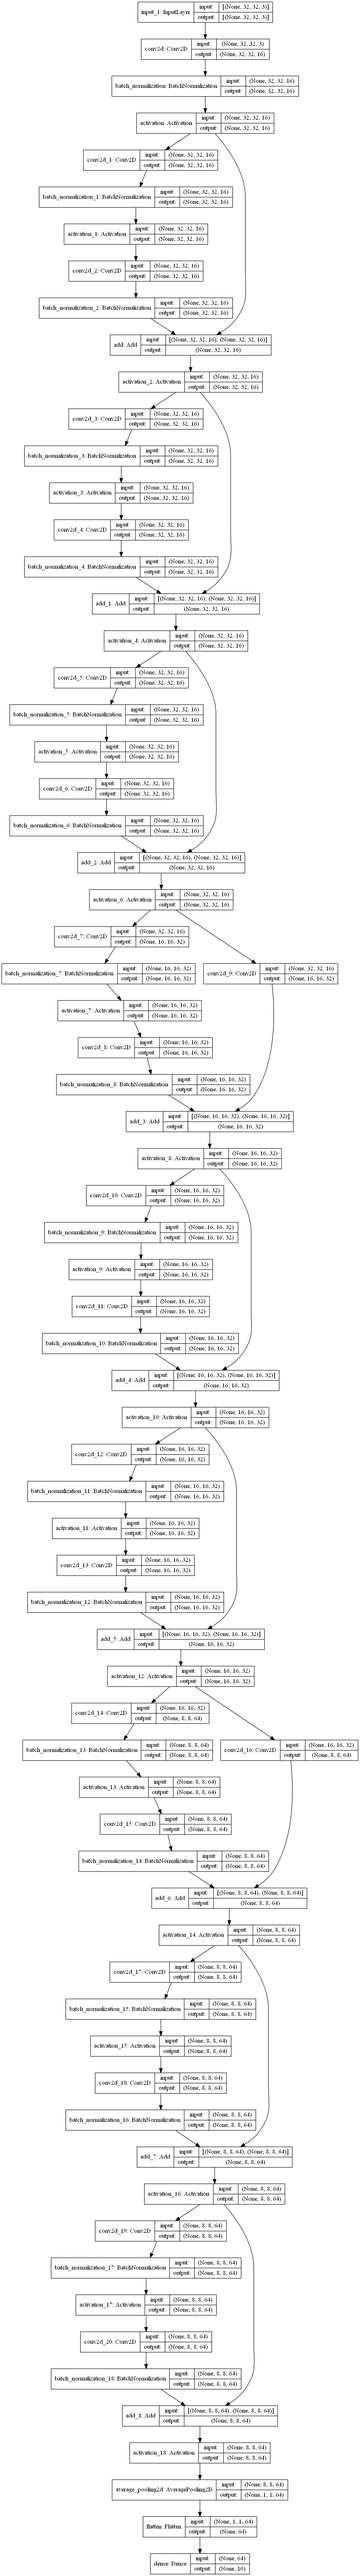
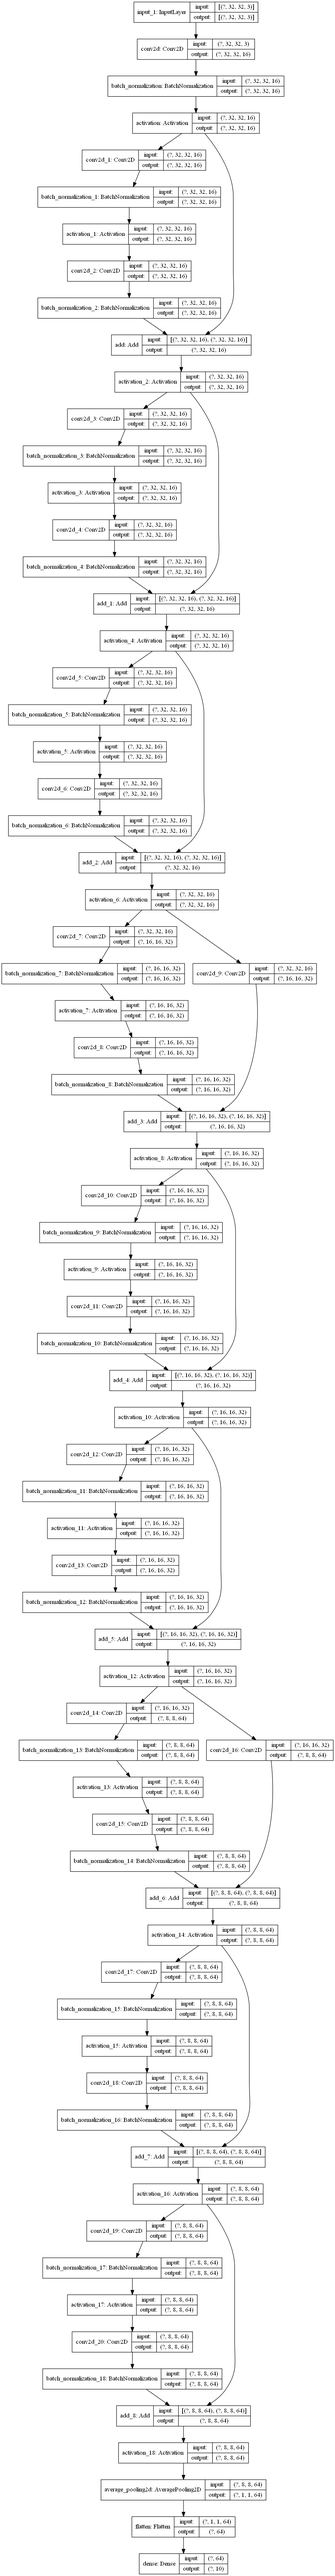
ResNet v2 실행, 계층 구조 이미지

diff --git a/KerasBook/2.2.1_ResNet-cifar10.py b/KerasBook/2.2.1_ResNet-cifar10.py
@@ -55,7 +55,7 @@ n = 3
 # model version
 # orig paper: version = 1 (ResNet v1),
 # improved ResNet: version = 2 (ResNet v2)
-version = 1 # NOTE : version = 2 로 변경 시 ResNet v2 실행시킬 수 있다.
+version = 2 # NOTE : version = 2 로 변경 시 ResNet v2 실행시킬 수 있다.
 
 # computed depth from supplied model parameter n
 if version == 1:
